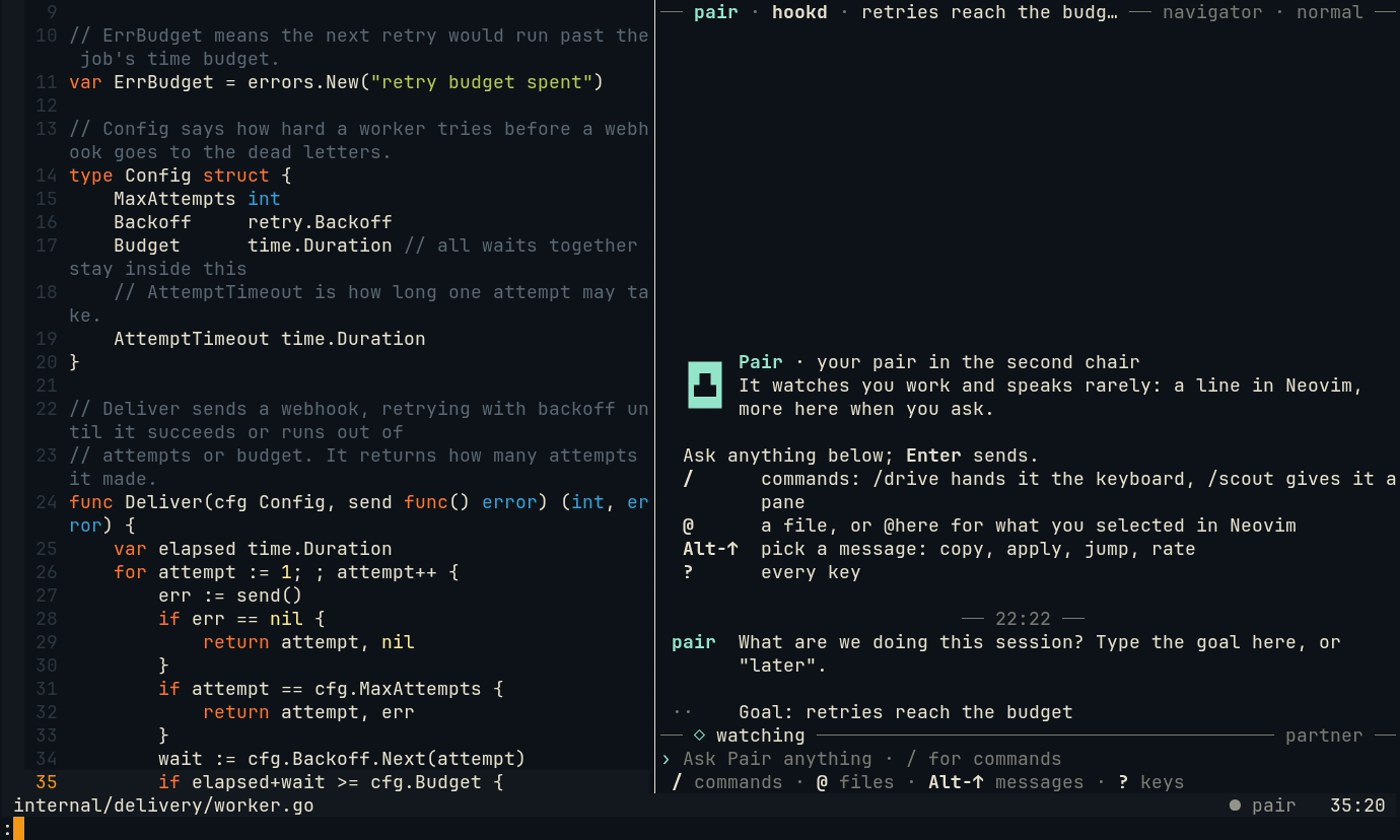
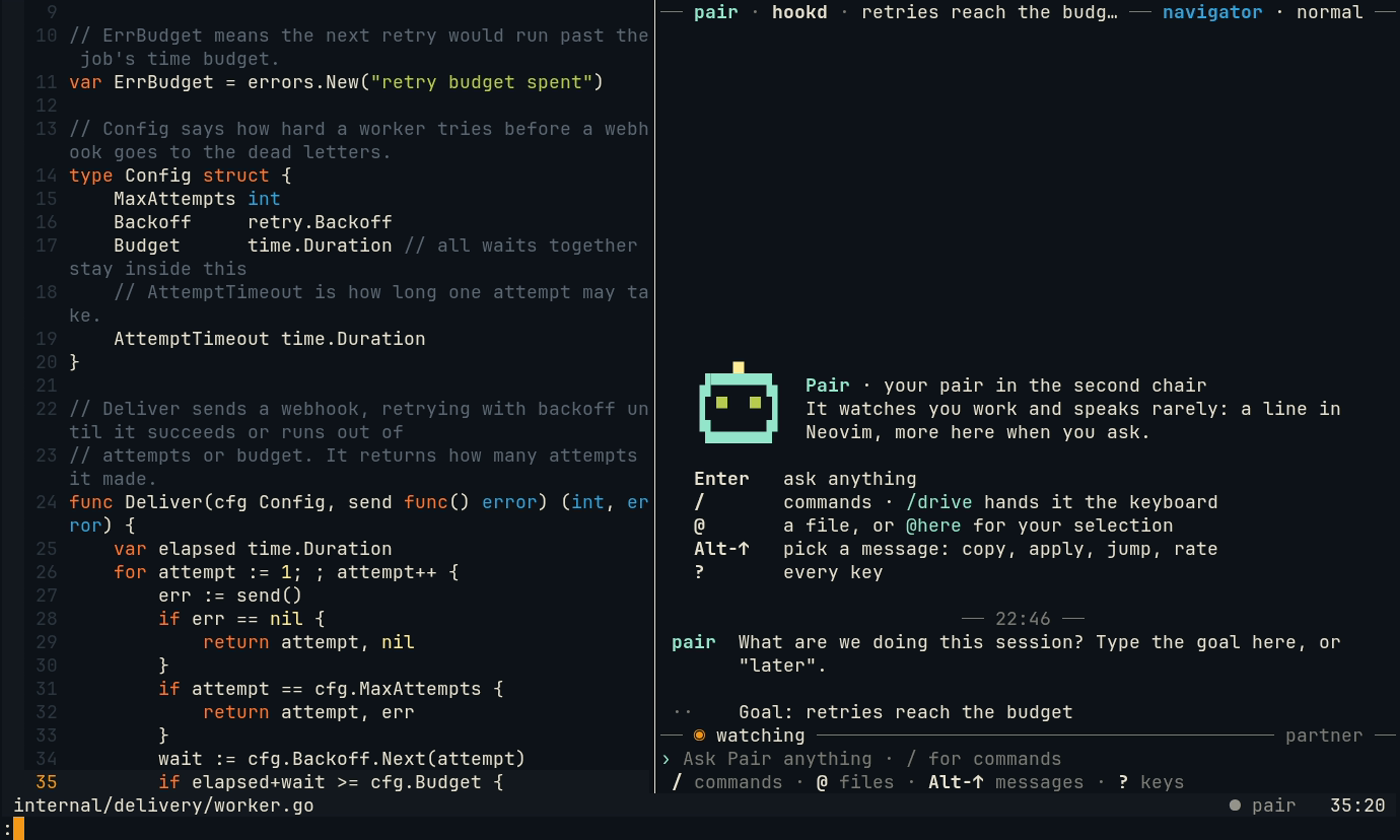
Docs and captures: Pair's head, role colours, calm motion
docs/chat.md: the empty pane and its head, the role colours in the header and
the status glyphs, '1 remark below', the counter after 3s, ! and └, DEC 2026.
roles.md, driver.md, troubleshooting.md and the README follow. The chat
captures are re-recorded with VHS 0.11.

diff --git a/docs/chat.md b/docs/chat.md
@@ -17,8 +17,11 @@ Four rows of chrome, two of them rules with words in them; the rest is the conve
 
 - **The header, in the top rule**: `── pair · hookd · the session's goal ──── navigator · normal ──`. The project, the
   goal, and on the right Pair's [role](roles.md) and its [talk level](watcher.md) (`quiet`, `normal`, `chatty`), and
-  how many kinds of remark you muted. When the pane is narrow the goal is cut first, then left out (always under 52
-  columns), then the role is shortened (`nav`), then the muted count, the level and the role give way.
+  how many kinds of remark you muted. The role is in its colour from the website: `navigator` blue, `scout` green,
+  `driver` red. While Pair [keeps the wheel](driver.md#keeping-the-wheel) (`/drive!`), the header says
+  `driver · keeps the wheel` in place of the level. When the pane is narrow the goal is cut first, then left out
+  (always under 52 columns), then the role is shortened (`nav`), then the muted count, the level and the role give
+  way.
 - **The conversation**, newest at the bottom. Each message has a 7-column gutter with who speaks, the same in a wide
   pane and a narrow one:
 
@@ -27,7 +30,7 @@ Four rows of chrome, two of them rules with words in them; the rest is the conve
   | `you` | What you sent, on screen as soon as you press Enter |
   | `pair` | Pair's answer to a question; a `✎ suggested change` shows as a diff. Also what Pair asks you: the session's goal, its greeting with last time's note, and whether it may run or type a command |
   | `watch` | What Pair said unasked: the kind of moment and the file and line first, then its words |
-  | `⎿` | What Pair's tools did for your question: the files it read, the commands it ran, what it searched |
+  | `└` | What Pair's tools did for your question: the files it read, the commands it ran, what it searched |
   | `··` | Notes: the tests on save, a verdict noted, a level changed |
   | `!` | An error, in red, such as a model that does not answer, with what to check: its words are Markdown, so a command in it (`pair doctor`) is a code span, whole, to copy |
 
@@ -46,7 +49,7 @@ Four rows of chrome, two of them rules with words in them; the rest is the conve
          + useful  - noise  a apply  j jump  · Alt-↑ first
 
    you   why does the third retry get a 409 and not a 200?
-         ⎿ read internal/queue/lease.go 1-40 · searched AttemptTimeout
+         └ read internal/queue/lease.go 1-40 · searched AttemptTimeout
   ```
 
   A remark is one unit: what about, its words, its diff behind the same `│ ` bar as a code block, and last its
@@ -92,42 +95,83 @@ Four rows of chrome, two of them rules with words in them; the rest is the conve
   **In a narrow pane** (under 52 columns) the gutter stays, so a message spends no row on its name. What gives way,
   instead of being cut in the middle:
 
-  - the `⎿` line names files by their base name and counts the tools that do not fit: `⎿ read lease.go 1-40 · +1`;
+  - the `└` line names files by their base name and counts the tools that do not fit: `└ read lease.go 1-40 · +1`;
   - a remark's place is its file's base name: `regression · lease.go:18`;
   - the header drops the goal and shortens the role (`── pair · hookd ──── nav · normal ──`);
   - the status keeps its words whole and drops what it can: the model first, then the counts
-    (`── ◇ watching · 3m ago ──`), `? waiting`, `▖ reading lease.go 1-40 2s`, `⚠ reconnecting 6s`;
+    (`── ◉ watching · 3m ago ──`), `? waiting`, `▖ reading lease.go 1-40 4s`, `! reconnecting 6s`;
   - the footer says its keys short (`/ cmds · @ files · Alt-↑ pick · ? keys`);
   - the `@` menu cuts a path at its start, a folder at a time, so two files never look the same:
     `@…/retry/backoff.go`, `@…/backoff_test.go`.
 
-  ![A 44-column chat pane: the gutter kept, the suggestion's diff wrapped between tokens with a hanging indent, the ⎿ line by base name, nav in the header and the short footer](images/chat-narrow.png)
+  ![A 44-column chat pane: the gutter kept, the suggestion's diff wrapped between tokens with a hanging indent, the └ line by base name, nav in the header and the short footer](images/chat-narrow.png)
 
   ![The same pane 112 columns wide: the words end by column 80, the diff runs on, and each turn's time, duration and tokens on the right of what Pair said](images/chat-wide.png)
 - **The status, in the rule over what you type**: what Pair does now, as `── ▖ writing 6s ──── qwen3-coder-30b ──`.
   It names no keys (those are in the footer), and its word is in body text, so it ranks above the footer. The answer
-  streams into the conversation as the model writes it.
+  streams into the conversation as the model writes it. How long Pair has been at it shows once that is 3 seconds,
+  so a short turn does not tick. Its glyph has the colour of the part at work: the Watcher's `◉` yellow, the
+  Driver's `◆` red, Pair's own spinner and word in its accent.
 
   | Status | Means |
   | --- | --- |
-  | `◇ watching · looked at 12 moments, spoke 2 · 3m ago` | Idle. The Watcher looked at 12 moments this session and Pair spoke at 2: most moments are not worth a word |
+  | `◉ watching · looked at 12 moments, spoke 2 · 3m ago` | Idle. The Watcher looked at 12 moments this session and Pair spoke at 2: most moments are not worth a word |
   | `▖ thinking 4s` | Pair works on your question; `Esc` stops it |
   | `▖ writing 6s` | Its answer is arriving, word by word |
+  | `▖ writing 6s · 1 remark below` | A remark or a note came while the answer streams: it waits, and goes under the answer once that is done ([below](#calm-motion)) |
   | `▖ reading queue.go 1-40`, `running go test ./...` | One of its tools is at work, and on what |
-  | `▖ looking at regression` | Pair looks at a moment of its own accord; it may say nothing |
+  | `▖ looking at regression` | The Watcher looks at a moment of its own accord (its spinner yellow); it may say nothing |
   | `? waiting for your answer` | It asked to run or type a command |
-  | `◆ Pair drives` | Pair has the wheel ([Driver](driver.md)) |
-  | `⚠ the pair daemon went away · reconnecting 6s · attempt 4` | The daemon restarted: how long it has been away and how many times the pane tried, so a blip reads differently from a daemon that is gone. What you type is kept (the input says so); nothing sends until it is back, and the pane carries on then |
+  | `◆ Pair drives · any key in Neovim takes it back` | Pair has the wheel ([Driver](driver.md)) |
+  | `! the pair daemon went away · reconnecting 6s · attempt 4` | The daemon restarted (the `!` in yellow): how long it has been away and how many times the pane tried, so a blip reads differently from a daemon that is gone. What you type is kept (the input says so); nothing sends until it is back, and the pane carries on then |
 
   On the right: the Partner's model, how long its last answer took, and the tokens and cost of it when the provider
-  reports them; when you scrolled up, how many lines are below (and `End` in the footer goes back down). The right
+  reports them (`! watcher not answering` instead when a model does not answer); when you scrolled up, how many lines
+  are below (and `End` in the footer goes back down). The right
   side gives way first, from its end; then the status is said shorter ([narrow panes](#what-you-see)).
 
-  ![Right after a question: the file Pair reads is a ⎿ line under it, and the status in the rule says thinking](images/chat-working.png)
+  ![Right after a question: the file Pair reads is a └ line under it, and the status in the rule says thinking](images/chat-working.png)
 - **What you type**, after `›`, and under it **the keys that work now**: they change when Pair works, asks, or you
   pick a message. The footer holds keys only; a short note (copied, taken in Neovim) shows there for a moment.
 
 ![A remark on save: watch, regression, the file and line, the suggestion as a diff, and its action line: + useful, - noise, a apply, j jump](images/chat-remark.png)
+
+### The empty pane
+
+Before anything is said, the pane shows Pair's head, the CRT-headed robot of the website drawn in quadrant blocks
+(its frame in Pair's accent, two green eyes, a magenta antenna), with what Pair is beside it, and the keys to start
+with under it. The head is four rows whatever the words beside it do; in a pane too narrow for its name beside it,
+the words go under it.
+
+```
+      ▗▖
+   ▗▛▀▀▀▀▜▖  Pair · your pair in the second chair
+   ▐ ▀  ▀ ▌  It watches you work and speaks rarely: a line in
+   ▝▙▄▄▄▄▟▘  Neovim, more here when you ask.
+
+   Enter   ask anything
+   /       commands · /drive hands it the keyboard
+   @       a file, or @here for your selection
+   Alt-↑   pick a message: copy, apply, jump, rate
+   ?       every key
+```
+
+![The empty pane: Pair's head, what it is, the keys to start with, and Pair asking for the session's goal](images/chat-empty.png)
+
+### Calm motion
+
+The pane moves only where you are not reading:
+
+- **Nothing moves above the answer you read.** A remark or a note (the tests on save, another agent's news) that
+  comes while Pair's answer streams waits; the status says so (`▖ writing 6s · 1 remark below`, `2 notes below`), and
+  it goes under the answer once that is done, in the order it came. What you send yourself shows at once.
+- **A short turn does not tick**: the time Pair has worked shows from 3 seconds on.
+- **Glyphs every font has**, one column wide: `!` (yellow) for the daemon gone or a model that does not answer, not
+  `⚠`, which some fonts draw as a two-column emoji; `└` under a question for its tools, not `⎿`, which many fonts lack.
+- **A frame is one update** where the terminal can take it so: the pane asks the terminal about synchronized output
+  (DEC mode 2026) as it starts, and wraps each frame in it when the answer is yes (kitty, WezTerm, foot, Ghostty,
+  Alacritty, iTerm2 and tmux 3.4 among others), so a frame never shows half drawn. A terminal that does not answer
+  gets plain frames, as before.
 
 ## Talking to Pair
 
@@ -246,10 +290,12 @@ that light themes wash out:
 | Colour | Only for |
 | --- | --- |
 | Body text | Everything addressed to you: answers, questions, notes, the status word, the empty card, the help |
-| Pair's accent | Pair's name, `code` in its words, the prompt, the spinner, the bar of a picked message |
-| Yellow | The Watcher: the `watch` label and a remark's kind and place; the `?` of a question waiting for you; `y` and `n` (bold) in the footer while it waits |
-| Dim | Chrome: the rules, the time dividers and an answer's time in the margin, what a key in the footer does, the `⎿` tool lines, a fold, a link's address |
+| Pair's accent | Pair's name, `code` in its words, the prompt, the spinner and the word of what it does, the bar of a picked message, the frame of its head |
+| Yellow | The Watcher: the `watch` label, a remark's kind and place, the `◉` of the status and its spinner while it looks; the `?` of a question waiting for you; `y` and `n` (bold) in the footer while it waits; the `!` of a daemon gone or a model that does not answer |
+| Dim | Chrome: the rules, the time dividers and an answer's time in the margin, what a key in the footer does, the `└` tool lines, a fold, a link's address |
 | Green, red | `+` and `-` lines of a diff; the find match you are on, in green (bold and underlined too); an error, in red |
+| Blue, green, red (bold) | The role in the header, as on the website: `navigator` blue, `scout` green, `driver` red, and the Driver's `◆` in the status |
+| Green, magenta | The eyes and the antenna of Pair's head, on the empty pane |
 
 Light themes are where dim and yellow fade: against the background, dim is about 2 : 1 in Tokyo Night Day and
 Solarized Light, and yellow is 3.0 : 1 in Solarized Light and 1.7 : 1 in xterm's default light (body text wants
@@ -259,7 +305,8 @@ keys `y` and `n`, in bold, keep the yellow.
 ## The plain pane
 
 When the pane's input or output is no terminal (a pipe, a script), with `TERM=dumb`, or with `pair chat --plain`, it
-is the plain pane: lines as they come, a `navigator ›` prompt, one line per question, and `⎿` lines for the tools. It
+is the plain pane: lines as they come, a `navigator ›` prompt (the role in its colour, when there are colours), one
+line per question, and `└` lines for the tools. It
 takes the same commands but `/search`, `/copy` and `/clear`, which say they work in the full-screen pane only;
 there `?` and Enter asks about what Pair said last, as `/why` does. Nothing above about keys, picking, the menu, the
 rules or the status applies there: Pair's question ends in `[y/N]`, and the goal is said in the conversation.

diff --git a/docs/troubleshooting.md b/docs/troubleshooting.md
@@ -64,7 +64,7 @@ the config ([watcher.md](watcher.md#thinking-the-partner-not-the-watcher)).
 | Pair misses short commands in your terminal, or calls a passing one failed | Without the [shell hook](cli.md#pair-shell-hook) Pair watches the pane and guesses from the output. Add the hook to your shell's rc file: each command's start, end and exit code then come from the shell |
 | Typing in a bash or fish terminal does not hold Pair back or take the wheel back | Pair tells typing there only in the pane with focus, from its screen. In zsh the [shell hook](cli.md#pair-shell-hook) reports your keys from any terminal |
 | No colours, or plain marks | Pair's colours need `termguicolors` ([setup](neovim-plugin.md#setup)) |
-| Pair says nothing in the chat for a while | Look at the chat's status, in the rule over the input: `thinking`, `writing` or a tool means it works on your question (`Esc` stops it); `◇ watching` means it is idle and chose to stay quiet; `⚠ … reconnecting` means the daemon restarted ([the chat pane](chat.md#what-you-see)) |
+| Pair says nothing in the chat for a while | Look at the chat's status, in the rule over the input: `thinking`, `writing` or a tool means it works on your question (`Esc` stops it); `◉ watching` means it is idle and chose to stay quiet; `! … reconnecting` means the daemon restarted ([the chat pane](chat.md#what-you-see)) |
 | The chat pane looks garbled, or your terminal does not draw it well | `pair chat --plain` runs the plain, line-by-line pane ([the plain pane](chat.md#the-plain-pane)) |
 | `c` in the chat copies nothing | Copying goes through OSC 52, which your terminal (or tmux without `set-clipboard on`) may drop ([limits](chat.md#limits)) |
 | You cannot select text in the chat with the mouse | The pane takes the mouse wheel: hold Shift to select, or `Alt-M` turns the mouse off |

diff --git a/docs/captures/README.md b/docs/captures/README.md
@@ -69,7 +69,7 @@ recording comes out the same each time; the tutorial video's scenes use a real m
 | [notes](tapes/notes.tape) | notes in the margin: the marks, a fixed line, a decision logged, the tasks panel |
 | [teach](tapes/teach.tape) | Alt-? on a remark: the idea worth keeping behind it, and its link |
 | [chat](tapes/chat.tape) | the chat pane: a remark on save with its diff and action line, a question asked there, the status in the rule while Pair reads, the answer streaming in, `Ctrl-F` on its matches (↑ to the one before, Enter picks its message), the command menu, and `?` |
-| [chat-layout](tapes/chat-layout.tape) | the chat scene in a 44-column pane (the gutter kept, code wrapped between tokens, the header, `⎿` line and footer shorter), then the same pane 112 columns wide (the words by column 80, an answer's meta in its margin) |
+| [chat-layout](tapes/chat-layout.tape) | the chat scene in a 44-column pane (the gutter kept, code wrapped between tokens, the header, `└` line and footer shorter), then the same pane 112 columns wide (the words by column 80, an answer's meta in its margin) |
 | [no-herdr](tapes/no-herdr.tape) | without herdr: `:Pair chat` opens the chat in Neovim, and Scout's pane is a `:terminal` along the bottom, sandboxed |
 
 ## The tutorial's scenes

diff --git a/docs/driver.md b/docs/driver.md
@@ -62,7 +62,8 @@ A hand-over needs Neovim connected (`:Pair start`), and is refused while Pair is
 `:Pair drive! [what]` or `/drive! [what]` hands Pair the wheel until you take it back. It answers the request as
 Driver and keeps the wheel when the answer ends: each question you type after it, in the chat or with `:Pair ask`,
 is a hand-over of its own, with its own edits, check and hand-back line. The chat says
-`Pair keeps the wheel for each request until you take it back: any key in Neovim, or /navigate.`
+`Pair keeps the wheel for each request until you take it back: any key in Neovim, or /navigate.` and its header
+`driver · keeps the wheel` until it gives the wheel back.
 
 In Neovim, a `:Pair` command (`:Pair ask and y to 20`, `:'<,'>Pair ask ...`) is how you talk to it: the keys of
 that command line do not take the wheel back. It ends as any hand-over does when you take the wheel back (any other

diff --git a/README.md b/README.md
@@ -80,7 +80,7 @@ your keys and logins).
 
 - [Getting started](docs/getting-started.md) and [install and daily use](docs/install.md)
 - [How it works](docs/how-it-works.md), [roles](docs/roles.md) and [workflows](docs/workflows.md)
-- [The chat pane](docs/chat.md): who speaks, what Pair is doing now, wide and narrow panes, a remark's own keys, find, its keys and commands
+- [The chat pane](docs/chat.md): who speaks, what Pair is doing now, wide and narrow panes, a remark's own keys, find, calm motion, role colours, its keys and commands
 - [/gen](docs/gen.md): ask Pair for code at your cursor, against your brief, take it with one key, undo the request
   as one; Pair's own edits carry their origin
 - [Push-to-talk](docs/voice.md): ask aloud, heard by whisper.cpp on your CPU or an OpenRouter model, with answers

diff --git a/docs/roles.md b/docs/roles.md
@@ -15,7 +15,8 @@ budget, reaches the Partner, and never while you type. Details in [The Watcher](
 
 ## The three roles
 
-Pair has one role at a time. It shows in the chat pane's header and in Neovim's statusline.
+Pair has one role at a time. It shows in the chat pane's header, in the role's colour from the website (Navigator
+blue, Scout green, Driver red), and in Neovim's statusline.
 
 ### Navigator (the default)
 
